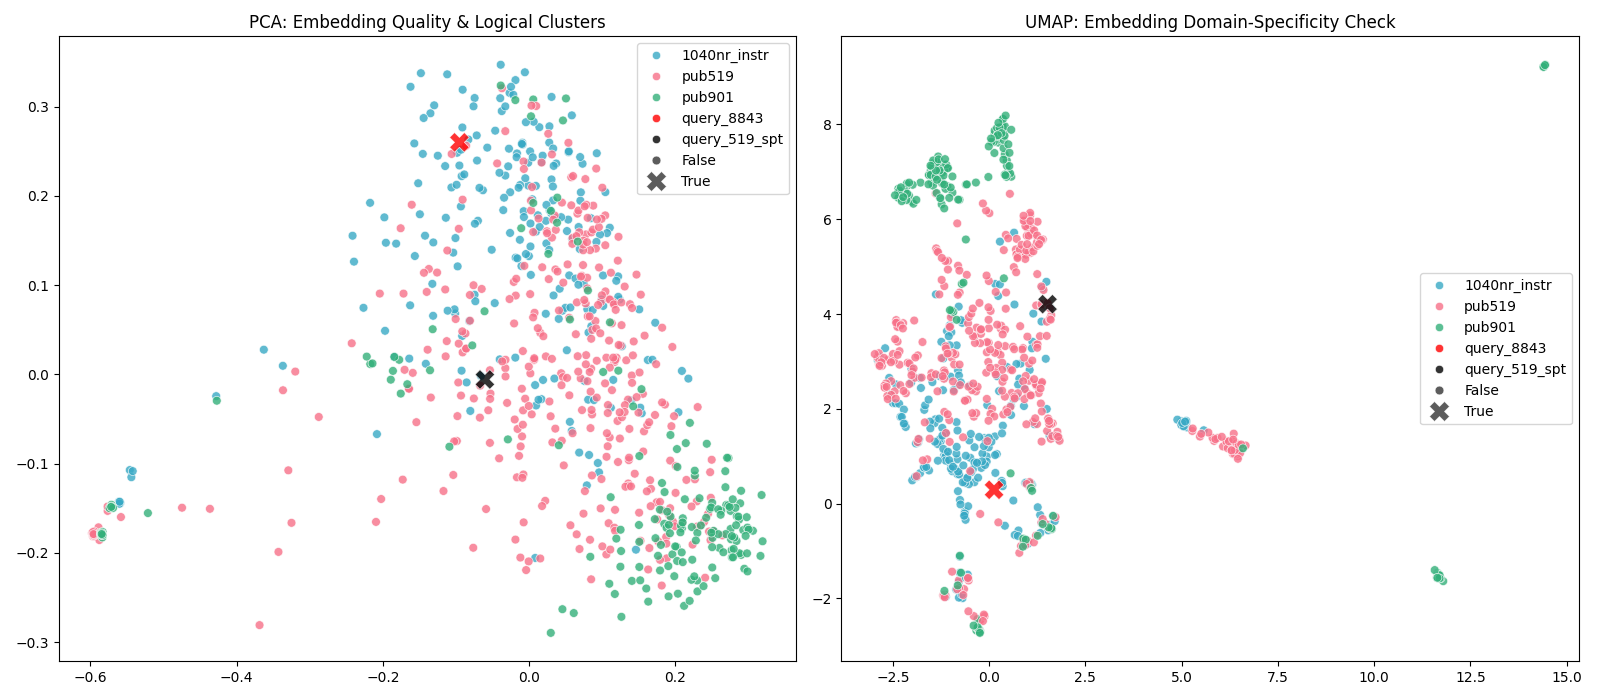
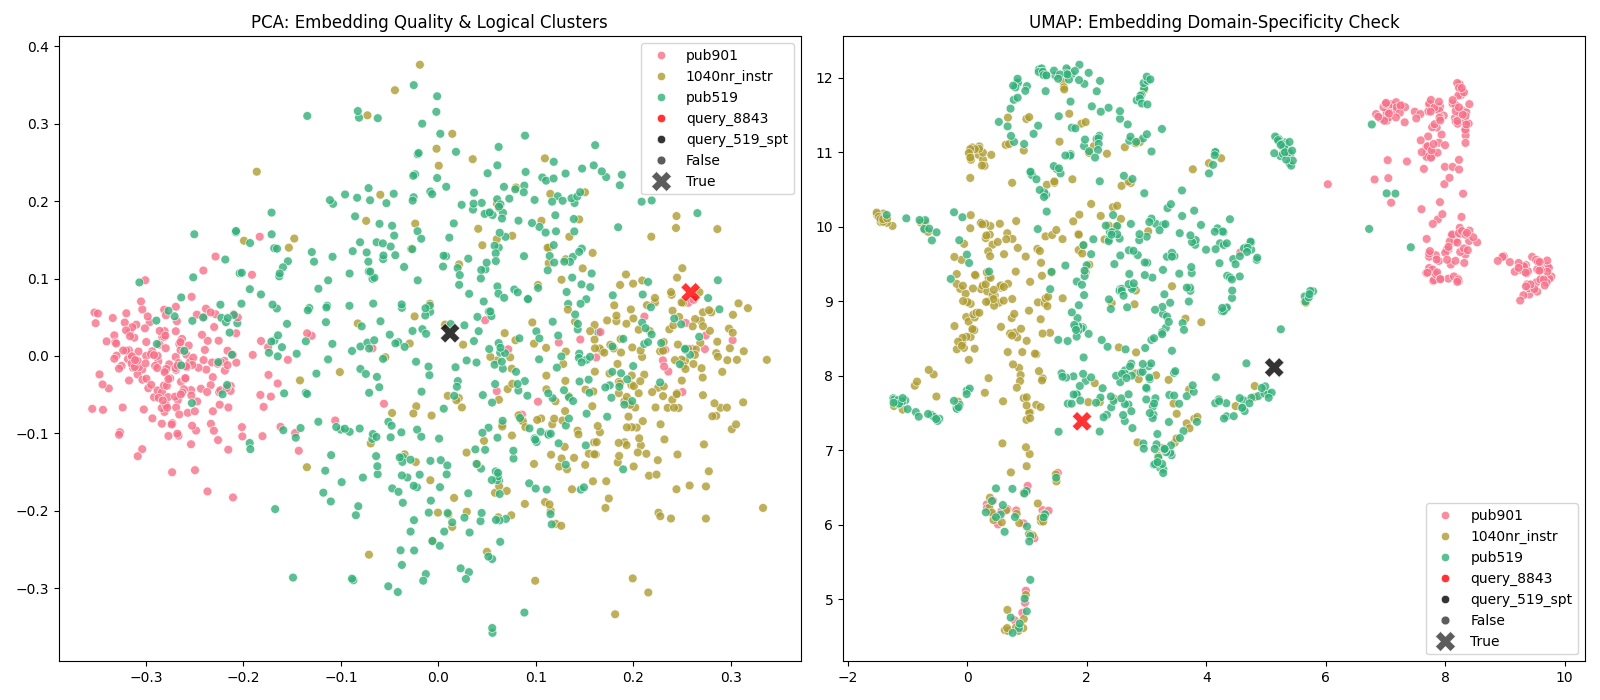
azurehosting model lessen

diff --git a/src/ingest.py b/src/ingest.py
@@ -73,32 +73,40 @@ def main():
                 doc.metadata.update(custom_metadata)
             semantic_docs.extend(docs)
 
-    print("Initializing Google Generative AI Embeddings...")
-    embeddings = GoogleGenerativeAIEmbeddings(model="models/text-embedding-004")
+    print("Initializing FastEmbed Embeddings (Local ONNX execution)...")
+    from langchain_community.embeddings.fastembed import FastEmbedEmbeddings
+    embeddings = FastEmbedEmbeddings()
 
-    print(f"Splitting {len(semantic_docs)} publication pages using Semantic Chunking...")
-    # Semantic chunking uses the embedding model to find logical breakpoints
-    from langchain_experimental.text_splitter import SemanticChunker
-    text_splitter = SemanticChunker(embeddings, breakpoint_threshold_type="percentile")
+    print(f"Splitting {len(semantic_docs)} publication pages using Recursive Character Chunking...")
+    # Replacing the API-heavy SemanticChunker with a local Recursive Splitter to avoid 429 Rate Limits
+    from langchain_text_splitters import RecursiveCharacterTextSplitter
+    text_splitter = RecursiveCharacterTextSplitter(
+        chunk_size=1200,
+        chunk_overlap=200,
+        length_function=len
+    )
     
     semantic_chunks = text_splitter.split_documents(semantic_docs)
-    print(f"Created {len(semantic_chunks)} semantic chunks.")
+    print(f"Created {len(semantic_chunks)} chunks.")
     
     print(f"Loaded {len(form_docs)} structure-aware chunks from forms.")
     
     chunks = semantic_chunks + form_docs
     print(f"Total chunks to upload: {len(chunks)}")
 
-    print("Uploading chunks and embeddings to Supabase...")
-    # We use SupabaseVectorStore.from_documents to embed and upload
+    print("Uploading chunks and embeddings to Supabase in batches to prevent SSL timeouts...")
     # 'documents' is the default table name expected by SupabaseVectorStore
-    vector_store = SupabaseVectorStore.from_documents(
-        chunks,
-        embeddings,
-        client=supabase,
-        table_name="documents",
-        query_name="match_documents"
-    )
+    batch_size = 30
+    for i in range(0, len(chunks), batch_size):
+        batch = chunks[i: i + batch_size]
+        print(f"Uploading batch {i+1} to {min(i+batch_size, len(chunks))} of {len(chunks)}...")
+        SupabaseVectorStore.from_documents(
+            batch,
+            embeddings,
+            client=supabase,
+            table_name="documents",
+            query_name="match_documents"
+        )
     
     print("Ingestion complete! Data successfully uploaded to Supabase pgvector.")
 

diff --git a/checkkey.py b/checkkey.py
@@ -1,0 +1,12 @@
+import os
+from dotenv import load_dotenv
+from google import genai
+
+load_dotenv()
+client = genai.Client(api_key=os.environ.get("GOOGLE_API_KEY"))
+
+# Iterate over all available models and print their IDs
+for model in client.models.list():
+    # Check if the model is an embedding model (e.g., contains 'embedding' in the name)
+    if 'embedding' in model.name:
+        print(model.name)

diff --git a/src/engine.py b/src/engine.py
@@ -1,7 +1,8 @@
 import os
 from datetime import datetime
 from dotenv import load_dotenv
-from langchain_google_genai import ChatGoogleGenerativeAI, GoogleGenerativeAIEmbeddings
+from langchain_google_genai import ChatGoogleGenerativeAI
+from langchain_community.embeddings.fastembed import FastEmbedEmbeddings
 from supabase.client import create_client, Client
 from langchain.chains import create_retrieval_chain
 from langchain.chains.combine_documents import create_stuff_documents_chain
@@ -26,8 +27,8 @@ if not SUPABASE_URL or not SUPABASE_SERVICE_KEY or not GOOGLE_API_KEY:
 
 supabase: Client = create_client(SUPABASE_URL, SUPABASE_SERVICE_KEY)
 
-# Using Gemini embeddings natively bypasses the 800MB PyTorch dependency
-embeddings = GoogleGenerativeAIEmbeddings(model="models/text-embedding-004")
+# FastEmbed runs BAAI/bge-small locally via ONNX without PyTorch bloat
+embeddings = FastEmbedEmbeddings()
 llm = ChatGoogleGenerativeAI(model="gemini-2.5-flash-lite", temperature=0)
 
 class SupabaseRestRetriever(BaseRetriever):